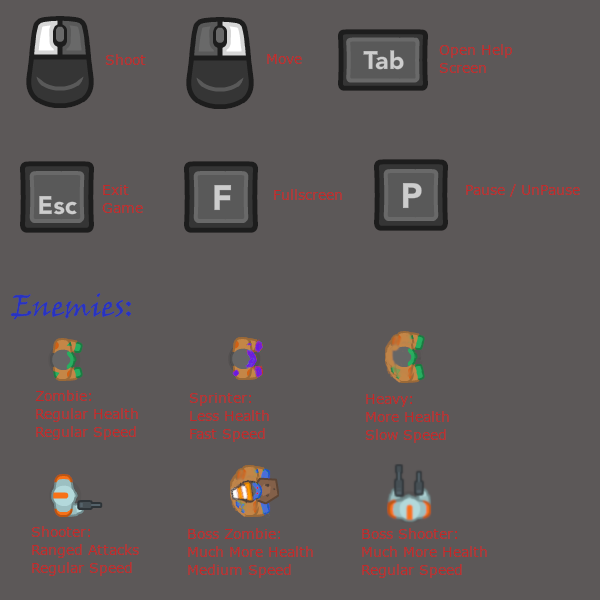
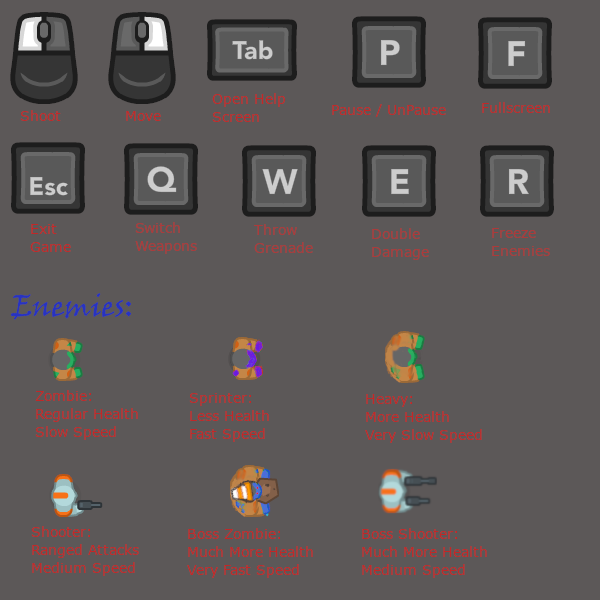
Added e ability and r ability

diff --git a/project/game/director.py b/project/game/director.py
@@ -36,6 +36,8 @@ class Director(arcade.View):
         self.lastEventY = 0
         self.help_bool = False
         self.pauseBool = False
+        self.doubleDamage = [False, 0]
+        self.ult = [False, 0]
         self.deathsound = arcade.Sound(const.RESOURCE_PATH + "zombiedeathsound.ogg")
         self.levelup = arcade.Sound(const.RESOURCE_PATH + "levelup.ogg")
         self.gunSound = arcade.Sound(const.RESOURCE_PATH + "gunshot.ogg")
@@ -46,12 +48,28 @@ class Director(arcade.View):
         Updates the sprites positions also spawns enemies if there are none
         """ 
         self.player.stopFootSteps()
+        if self.doubleDamage[1] + 5 <= time.time() and self.doubleDamage[1] != 0:
+            self.doubleDamage[1] = 1
+            self.doubleDamage[0] = False
         if not self.pauseBool:
             self.physicsEngine.update()
-            self.allSprites.update()
+            if self.ult[1] + 1.5 < time.time() and (self.ult[1] == 0 or self.ult[1] == 1):
+                self.ult[0] = False
+                self.enemySprites.update()
+            elif self.ult[1] + 1.5 > time.time():
+                self.ult[0] = True
+                pass
+            else:
+                self.ult[1] = 1
+
+            self.projectileSprites.update()
+            self.playerSprite.update()
             self.scroll_to_player()
             if len(self.enemySprites) == 0 and self.level < 1003:
                 self.levelup.play(.5)
+                self.doubleDamage[1] = 0
+                self.doubleDamage[0] = False
+                self.ult = [False, 0]
                 self.level += 1
                 SpawnEnemies.spawnEnemies(self)
                 self.player.setEnemySprites(self.enemySprites)
@@ -88,7 +106,7 @@ class Director(arcade.View):
             arcade.draw_lrwh_rectangle_textured(self.player.center_x - self.window.width/4 -10,
             self.player.center_y - 200, 600 , 600, texture = self.helpscreen)
 
-        arcade.draw_text(f"Level: {self.level} | Score: {self.score} | Zombies Left: {len(self.enemySprites)} | Ammo Left(Q to Switch Weapons): {self.q.getShotsLeft()} | TAB: Show Controls/Help",
+        arcade.draw_text(f"Level: {self.level} | Score: {self.score} | Zombies Left: {len(self.enemySprites)} | Ammo Left: {self.q.getShotsLeft()} | E: {self.doubleDamage[0]} | R: {self.ult[0]} | TAB: Show Controls/Help",
          self.player.center_x - self.window.width/2 + 10, 
          self.player.center_y - self.window.height/2 + 20, 
          arcade.color.WHITE, 14)   
@@ -113,6 +131,14 @@ class Director(arcade.View):
             self.pauseBool = not self.pauseBool
         elif symbol == arcade.key.Q:
             self.q.switchStance(self.player)
+        elif symbol == arcade.key.E:
+            self.doubleDamage[0] = not self.doubleDamage[0]
+            if self.doubleDamage[1] != 1:
+                self.doubleDamage[1] = time.time()
+        elif symbol == arcade.key.R:
+            self.ult[0] = not self.ult[0]
+            if self.ult[1] != 1:
+                self.ult[1] = time.time()
 
     def on_key_release(self, symbol: int, modifiers: int):
         if symbol == arcade.key.TAB:
@@ -150,6 +176,10 @@ class Director(arcade.View):
             if button == arcade.MOUSE_BUTTON_LEFT:
                 if self.q.shoot(self, x, y, self.player.center_y, self.player.center_x):
                     arcade.play_sound(self.gunSound, volume= .2)
+                if self.doubleDamage[0] and self.doubleDamage[1] != 1:
+                    self.q.shoot(self, x, y, self.player.center_y, self.player.center_x)
+                    if self.q.shotsLeft[self.q.stance] != 0:
+                        self.q.shotsLeft[self.q.stance] += 1
             
             
                 

diff --git a/project/game/drawHealthbars.py b/project/game/drawHealthbars.py
@@ -14,14 +14,15 @@ class DrawHealthBars():
                     width=const.HEALTHBAR_WIDTH,
                     height=const.HEALTHBAR_HEIGHT * 2 / 3,
                     color=arcade.color.RED)
-        arcade.draw_rectangle_filled(center_x=sprite.center_x - 0.5 * \
-                    (const.HEALTHBAR_WIDTH - health_width),
-                    center_y=sprite.center_y + const.HEALTHBAR_OFFSET_Y * sprite.scale,
-                    width=health_width,
-                    height=const.HEALTHBAR_HEIGHT,
-                    color=arcade.color.GREEN)
-        arcade.draw_text(f"{sprite.getHealth()}/{sprite.getMaxHealth()}",
-                    start_x=sprite.center_x,
-                    start_y=sprite.center_y + const.HEALTHBAR_OFFSET_Y * sprite.scale,
-                    font_size=12,
-                    color=arcade.color.WHITE, anchor_x="center")
+        if sprite.getHealth() >= 0:
+            arcade.draw_rectangle_filled(center_x=sprite.center_x - 0.5 * \
+                        (const.HEALTHBAR_WIDTH - health_width),
+                        center_y=sprite.center_y + const.HEALTHBAR_OFFSET_Y * sprite.scale,
+                        width=health_width,
+                        height=const.HEALTHBAR_HEIGHT,
+                        color=arcade.color.GREEN)
+            arcade.draw_text(f"{sprite.getHealth()}/{sprite.getMaxHealth()}",
+                        start_x=sprite.center_x,
+                        start_y=sprite.center_y + const.HEALTHBAR_OFFSET_Y * sprite.scale,
+                        font_size=12,
+                        color=arcade.color.WHITE, anchor_x="center")
